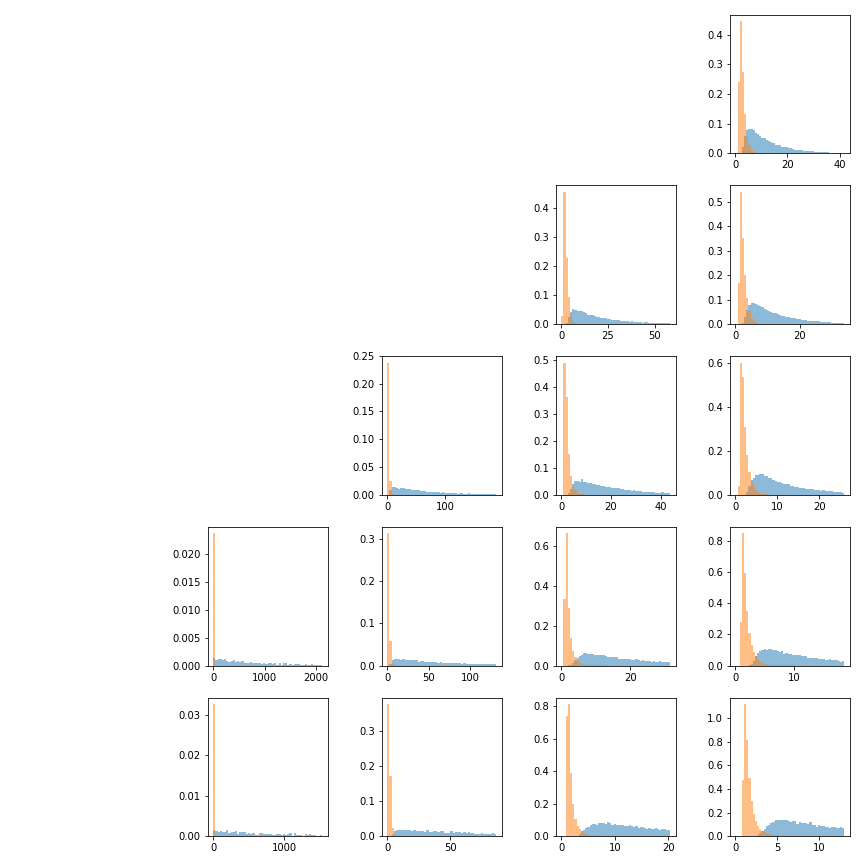
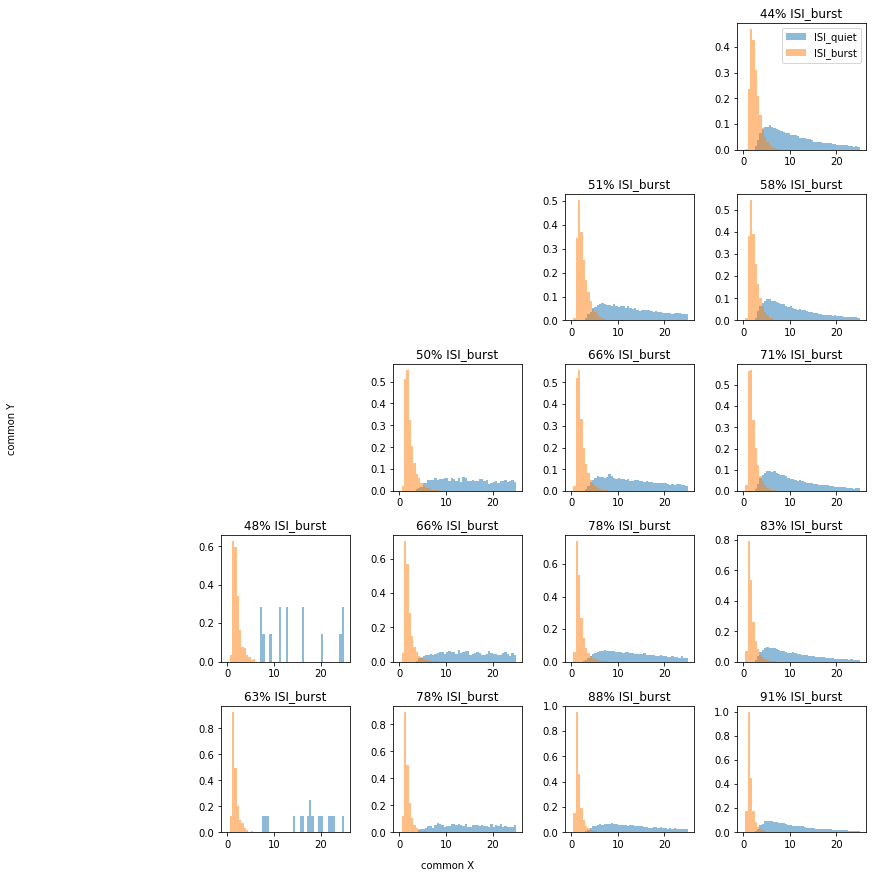
working on plots and plotting

Changed region(s): [[0.2188, 0.0, 1.0, 1.0], [0.6562, 0.1875, 0.75, 0.2188], [0.0, 0.4688, 0.0312, 0.5312]]

diff --git a/plot_hists_segments.py b/plot_hists_segments.py
@@ -1,19 +1,13 @@
 from brian2 import *
 from Neuron import *
 
-def plot_all_histograms(name):
-    plt.rcParams['figure.figsize'] = 12, 12  
-
-    tau_ns = [ .155, .1575,.16,.1625, .165]*ms
-    Iapps = [1.2,2.3,3.2,3.9,4.3]*uA
-    I_noises = [2,2.5,3]*uA
-    duration = 50*second
-    number = 10
-    
+def parameters_by_name(name):
     if name == 'segments':
         keys = ['time_up', 'time_down', 'time_above']
     if name == 'quiet_and_burst':
         keys = ['ISI_quiet', 'ISI_burst']
+    if name == 'burst':
+        keys = ['ISI_burst']
     if name == 'all':
         keys = ['ISI']
     if name == 'quiet_and_up':
@@ -27,6 +21,42 @@ def plot_all_histograms(name):
     if name == 'n_last_up':
         keys = [name]
         
+    return keys
+
+def plot_subplot(fig, file_name, name, idx_tau_n, idx_Iapp):
+    keys = parameters_by_name(name)
+    
+    ax = fig.add_subplot(5,5,5*(4 - idx_tau_n)+idx_Iapp +1)
+    
+    try:     
+       
+        results = get_simulation(file_name)
+        print(file_name)
+        intervals = results
+        flat_intervals = np.array([interval for neuron in intervals['ISI'] for interval in neuron])
+        mean = 5 # flat_intervals.mean()*1000
+        ax.xlim = ((0,5*mean))
+        for key in keys:
+            flat_intervals = np.array([interval for neuron in intervals[key] for interval in neuron])
+            ax.hist(flat_intervals*1000, normed = True, bins = 50,  alpha = .5, range = ((0,5*mean)), log = False, label = key)
+        if name == 'quiet_and_burst':
+            num_ISI = np.sum([len(neuron) for neuron in intervals['ISI']])
+            num_ISI_burst = np.sum([len(neuron) for neuron in intervals['ISI_burst']])
+            ax.set_title(str(int(num_ISI_burst/num_ISI*100))+'% ISI_burst')
+    except IOError:
+        ax.axis('off')
+        pass
+    
+
+def plot_all_histograms(name):
+    plt.rcParams['figure.figsize'] = 12, 12  
+
+    tau_ns = [ .155, .1575,.16,.1625, .165]*ms
+    Iapps = [1.2,2.3,3.2,3.9,4.3]*uA
+    I_noises = [2,2.5,3]*uA
+    duration = 50*second
+    number = 10
+          
     for I_noise in I_noises:
         
         fig = plt.figure()
@@ -34,26 +64,14 @@ def plot_all_histograms(name):
         for idx_tau_n, tau_n in enumerate(tau_ns):
             for idx_Iapp, Iapp in enumerate(Iapps):
                 file_name=str(duration/second)+' s  '+str(I_noise)+' '+str(tau_n)+'  '+str(Iapp)+' '+str(number)
-                ax = fig.add_subplot(5,5,5*(4 - idx_tau_n)+idx_Iapp +1)
-                print(file_name)
-                try:     
-                    results = get_simulation(file_name)
-                    intervals = results
-                    flat_intervals = np.array([interval for neuron in intervals['ISI'] for interval in neuron])
-                    mean = flat_intervals.mean()*1000
-                    ax.xlim = ((0,5*mean))
-                    for key in keys:
-                        flat_intervals = np.array([interval for neuron in intervals[key] for interval in neuron])
-                        ax.hist(flat_intervals*1000, normed = True, bins = 50,  alpha = .5, range = ((0,5*mean)), log = False, label = key)
-                        
-                except IOError:
-                    ax.axis('off')
-                    pass
+                plot_subplot(fig, file_name, name, idx_tau_n, idx_Iapp )
                 
-        ax = fig.add_subplot(5,5,1)
-        plt.legend(loc = 2)
+                
+        plt.legend(loc = 1)
+       
+        fig.text(0.5, -0.01, 'common X', ha='center')
+        fig.text(-0.01, 0.5, 'common Y', va='center', rotation='vertical')
         plt.tight_layout()
-        
-        plt.savefig('pictures_report/'+name+' '+str(I_noise)+'.png')
+        plt.savefig('pictures_report/'+name+' '+str(I_noise)+'.png', bbox_inches='tight')
         
 plot_all_histograms('quiet_and_burst')

diff --git a/ratio.py b/ratio.py
@@ -2,39 +2,40 @@ from Neuron import get_simulation
 from brian2 import *
 import matplotlib.pyplot as plt
 from mpl_toolkits.mplot3d import Axes3D
-plt.rcParams['figure.figsize'] = 9, 6
+plt.rcParams['figure.figsize'] = 12, 9
 
-tau_n = .153*ms
-Iapp = 1* uA #/cm**2
-I_noise = 2.5*uA
+
+tau_ns = [.165,.1625,.160,.1575,.155]*ms
+Iapps = [4.3,3.9,3.2,2.3,1.2]*uA
+I_noises = [2,2.5,3]*uA
 duration = 50000*ms
-
-v0=-30*mV
-n0=.05
+number = 10
 
 fig = plt.figure()
 ax = fig.gca(projection='3d')
 ax.set_xlabel('tau_n (ms)')
 ax.set_ylabel('Iapp (uA)')
 ax.set_zlabel('fraction of burtst ISIs')
-ax.set_xticks([.155, .1575,.16,.1625, .165])
-ax.set_yticks([1.2,2.3,3.2,3.9,4.3,4.51])
-ax.view_init(10,180)
+ax.set_xticks([.165,.1625,.160,.1575,.155])
+ax.set_yticks([4.3,3.9,3.2,2.3,1.2])
+ax.view_init(10,-75)
+plt.gca().invert_xaxis()
 
-for tau_n in [ .155, .1575,.16,.1625, .165]*ms:
-    for Iapp in [1.2,2.3,3.2,3.9,4.3,4.51]*uA:
-        for duration in [10000,50000]*ms:
-
-            file_name=str(tau_n)+'  '+str(Iapp)+'  ('+str(v0)+', '+str(n0)+')  '+str(duration/second)+' s  '+str(I_noise)
-#            print(file_name)
+for I_noise, color in zip(I_noises,['b','r','g']):
+    for tau_n in tau_ns:
+        for Iapp in Iapps:
+            file_name=str(duration/second)+' s  '+str(I_noise)+' '+str(tau_n)+'  '+str(Iapp)+' '+str(number)
+           
             
             try:     
                 data = get_simulation(file_name)
+                print(file_name)
                 ISIs = [ISI for neuron in data['ISI'] for ISI in neuron ]
-                ISI_quiet = [ISI for neuron in data['ISI_quiet'] for ISI in neuron ]
+                ISI_quiet = [ISI for neuron in data['ISI_burst'] for ISI in neuron ]
                 ratio = len(ISI_quiet)/len(ISIs)
                 print(tau_n/ms,Iapp/uA, ratio)    
-                ax.scatter(tau_n/ms,Iapp/uA, ratio)
+                ax.scatter(tau_n/ms,Iapp/uA, ratio, color = color)
+#                ax.plot(Iapp/uA, ratio, 'r+', zdir='x', zs = 1.5)
                 
             
             except IOError:
